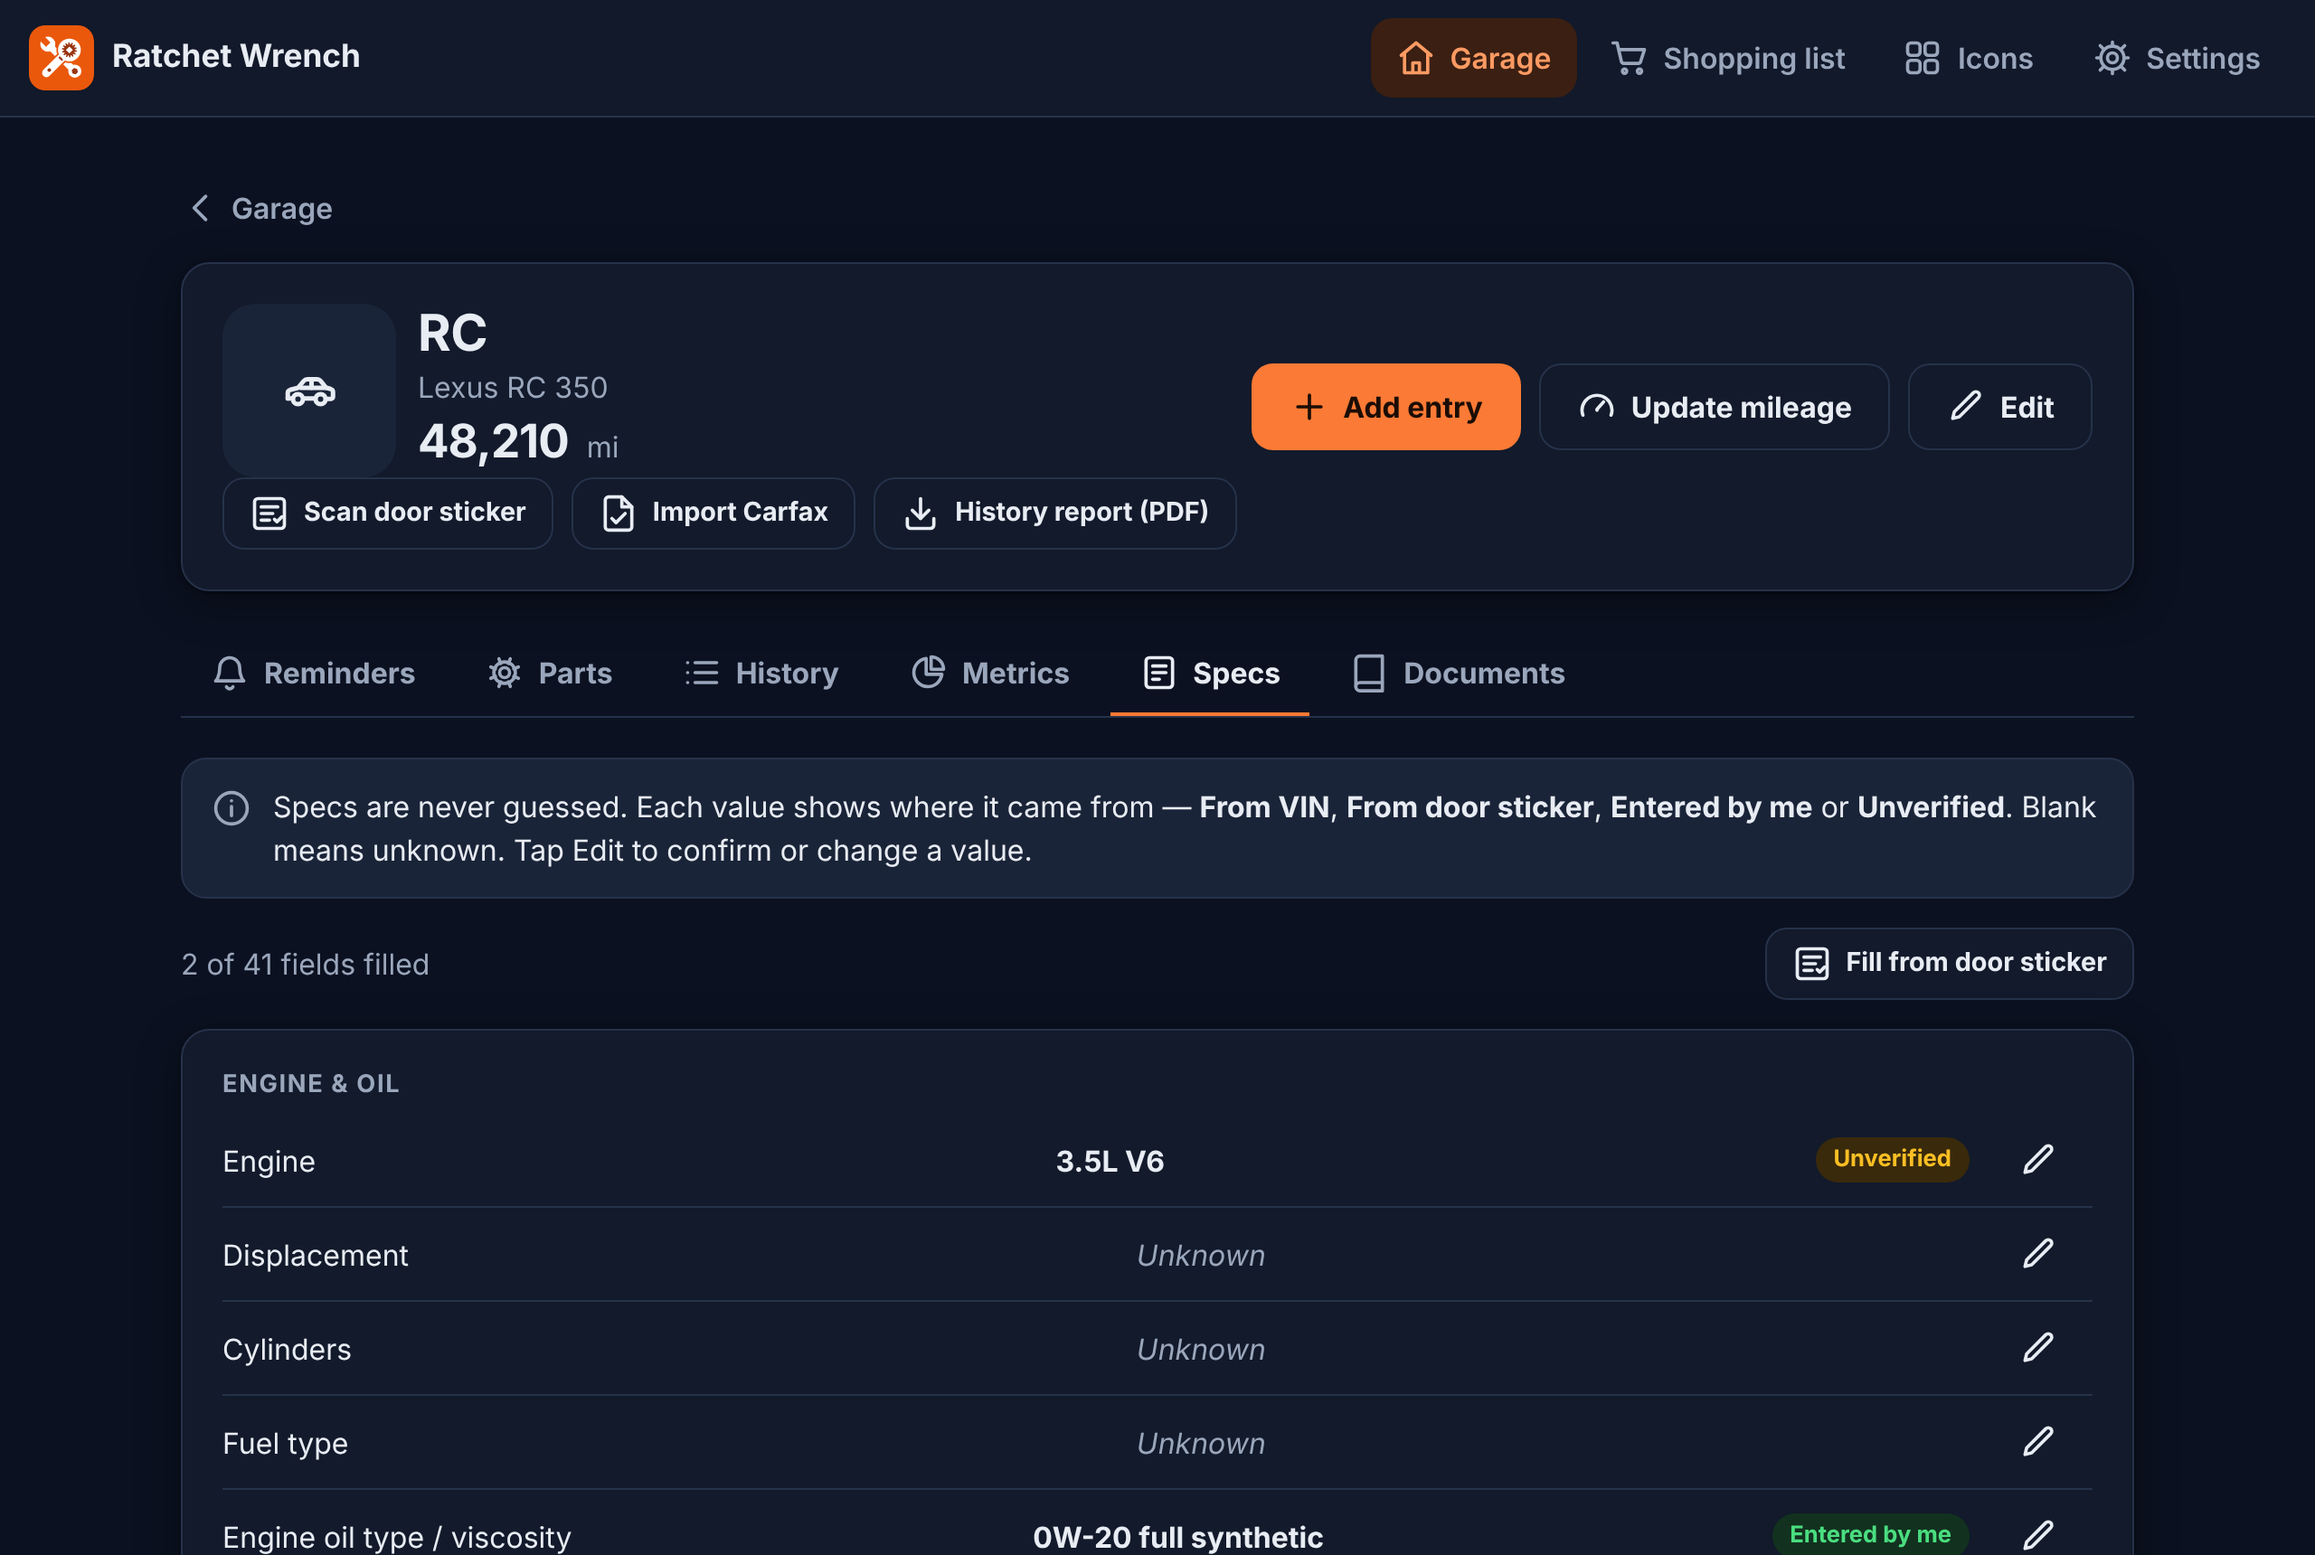
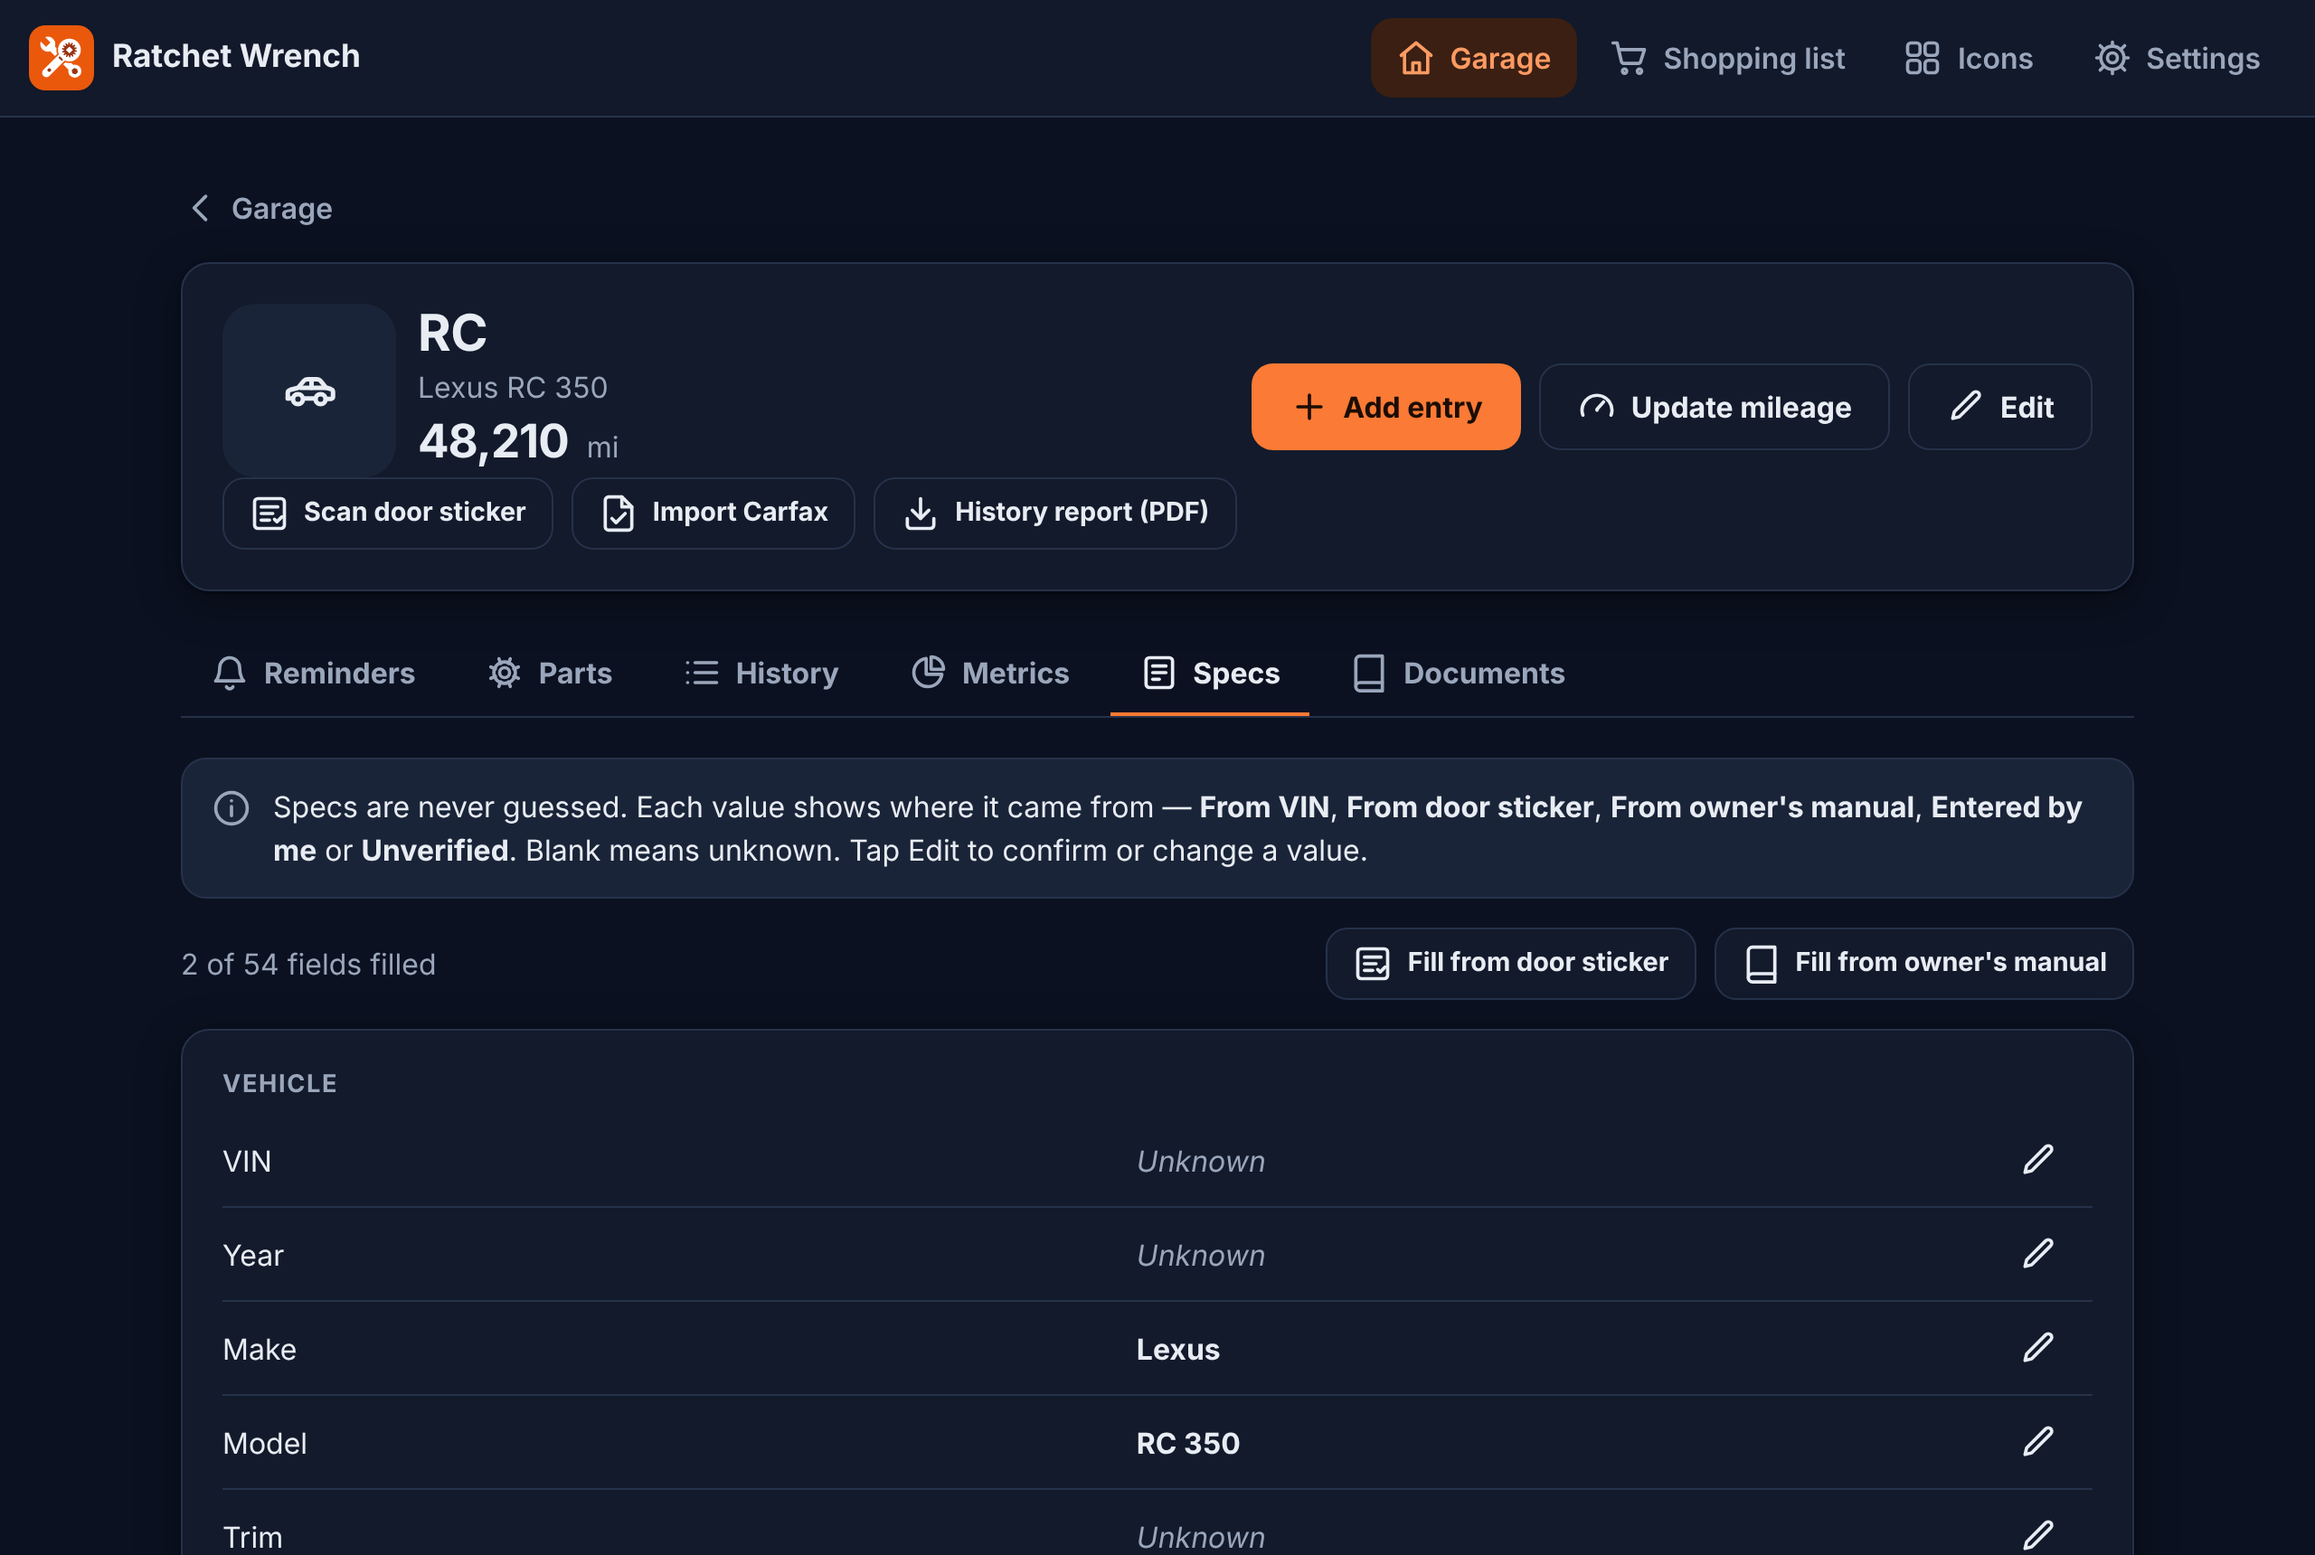
Fix layout test for off-screen buttons; README: specs, sticker weights, manual links, Sync settings; new screenshots
- syncButtonsAreFullWidth measured the clipped on-screen width (0 for
  buttons below the fold); now the layout width.
- README feature list rewritten for Specs (Vehicle section, VIN, sticker
  GVWR/GAWR, owner's manual from PDF / links / text, paint colour),
  outbound connections, Settings > Sync buttons. Screenshots regenerated.
- Release notes: these changes ship as 1.0.37 (1.0.35/1.0.36 builds
  failed on test timing).

Claude-Session: https://claude.ai/code/session_01W93D3VvsnAUVTr3xgsXBW4

diff --git a/android/app/src/test/java/com/ratchetwrench/app/ScreensTest.kt b/android/app/src/test/java/com/ratchetwrench/app/ScreensTest.kt
@@ -489,10 +489,10 @@ class ScreensTest {
             store.mode = "server"
             click("Settings")
             scrollTo("Sign in again")
-            val screen = rule.onAllNodes(androidx.compose.ui.test.isRoot())[0].fetchSemanticsNode().boundsInRoot.width
+            val screen = rule.onAllNodes(androidx.compose.ui.test.isRoot())[0].fetchSemanticsNode().size.width.toFloat()
             val widths = listOf("Sync now", "Change address", "Reconnect with QR code", "Sign in again").map { label ->
                 scrollTo(label)
-                rule.onAllNodesWithText(label)[0].fetchSemanticsNode().boundsInRoot.width
+                rule.onAllNodesWithText(label)[0].fetchSemanticsNode().size.width.toFloat()  // layout width (not clipped by the screen edge)
             }
             for (w in widths) {
                 org.junit.Assert.assertEquals("all Sync buttons the same width: $widths", widths[0], w, 1f)

diff --git a/README.md b/README.md
@@ -24,9 +24,14 @@ You can start with the phone alone and connect it to a computer or server later:
 
 **Manage your vehicles**
 - **Vehicles:** cars and motorcycles with year, make, model (pick from NHTSA's lists for that make and year), nickname, VIN, mileage and a photo.
-- **VIN:** type it, or **scan the barcode** with the phone camera (only what's inside the on-screen box is read). The free US government (NHTSA) decoder fills in what it knows.
-- **Door-jamb sticker scan:** photograph the stickers inside the driver's door. The phone reads them offline and finds the VIN, tire sizes and pressures, paint and trim codes, build date and weight ratings. You **confirm, edit or reject every value** before it's saved.
-- **Specs** (oil type and capacity, tire sizes, fluids, paint code…). Decoding the VIN fills in everything NHTSA knows (engine and engine code, horsepower, transmission, drive, body, weight, wheelbase, safety equipment, plant…). **Fill from owner's manual** takes you to the maker's owner website, then reads the manual from a PDF, from links (a PDF or web-manual pages) or from pasted text, finds the oil grade, coolant, transmission and brake fluid and their capacities, and shows where each came from, for you to confirm. A known paint code (Lexus, Toyota, Kia) suggests the colour name. Every value shows where it came from: **From VIN**, **From door sticker**, **From owner's manual**, **Entered by me** or **Unverified**. Nothing is guessed.
+- **VIN:** type it, or **scan the barcode** with the phone camera (only what's inside the on-screen box is read). The free US government (NHTSA) decoder fills in the year, make, model and every spec it knows. If NHTSA lists several possible trims, you pick yours.
+- **Door-jamb sticker scan:** photograph the stickers on the driver's door and door pillar — the tire placard **and** the label with the VIN. The phone reads them offline and finds the VIN, tire sizes and pressures, paint and trim codes, build date and the weight ratings (**GVWR** and front/rear **GAWR**, in lb). You **confirm, edit or reject every value** before it's saved.
+- **Specs** — everything about the vehicle in one list, starting with VIN, year, make, model and trim. Ways to fill it in:
+  - **Decode VIN:** engine and engine model, horsepower, transmission, drive, body, curb weight, wheelbase, safety equipment, plant.
+  - **Door sticker:** tires, pressures, paint, weights (above).
+  - **Fill from owner's manual:** opens the maker's owner website to find the manual, then reads it from a **PDF**, from **links** (one PDF or several web-manual pages) or from **pasted text**. It finds oil grade, coolant, transmission and brake fluid, capacities, GVWR and more, and shows where each value came from. Empty fields the manual usually covers say "can be filled from owner's manual" — tap to go there.
+  - **Paint colour:** a known paint code (Lexus, Toyota, Kia) suggests the colour name.
+  - Every value is labelled **From VIN**, **From door sticker**, **From owner's manual**, **Entered by me** or **Unverified**. Nothing is guessed, and you confirm everything.
 - **Parts** with OEM part numbers and a link to the manufacturer's official parts site. Specs that are parts (oil type, oil filter number, tire sizes, battery group, wiper sizes…) are **added to Parts automatically**.
 - **Maintenance and repair history:** date, mileage, type (each with its own icon), description, parts, cost, shop or DIY, notes, and any number of photos and receipts. Costs with nothing entered show $0.00.
 - **Reminders** by mileage, by date, or **whichever comes first**. A vehicle opens on its reminders, **overdue first**. Tap one and **Mark as done**: it fills in today's date and mileage, adds the job to the history, and the status changes from Overdue to OK. Any matching record you log also updates the reminder.
@@ -43,7 +48,7 @@ You can start with the phone alone and connect it to a computer or server later:
 - **Shopping list:** collect what you need before a job — from a reminder, a saved part, or typed in — with quantity, OEM part number, spec and notes. Search any item, tick it off when bought. Never creates expenses or marks maintenance done by itself.
 
 **Everything else**
-- **Connect your phone by QR code:** the desktop app (or Settings → Connect a phone on the web) shows a one-time QR code; scan it in the Android app. A small banner offers **Resync** when the phone can't reach the computer (and can be dismissed).
+- **Connect your phone by QR code:** the desktop app (or Settings → Connect a phone on the web) shows a one-time QR code; scan it in the Android app. A small banner offers **Resync** when the phone can't reach the computer (and can be dismissed). *Settings → Sync* has Sync now, Change address, Reconnect with QR code and Sign in again.
 - **Report a bug** from inside the app: describe the problem, see exactly what will be sent, and press Send — it goes straight to the project's GitHub issues ([docs/BUG-REPORTS.md](docs/BUG-REPORTS.md)).
 - **"What's new"** after every update (including versions you skipped), and **Light, Dark or System** theme.
 
@@ -199,7 +204,7 @@ Security was the top priority. Highlights:
 - **File uploads:** checked by their real content type, with GPS and other metadata stripped from photos, and untrusted PDFs read in a sandbox.
 - **Server container:** runs as non-root with a read-only filesystem.
 - **Android app:** the login token is encrypted with the Android Keystore, and HTTPS is enforced.
-- **No telemetry or tracking.** Outbound connections are few, documented and mostly optional: NHTSA (VIN decoding, model lists and recalls — year/make/model only), GitHub (app updates, and bug reports only when you press Send), your own ntfy server, and AI sticker reading only if the owner turns it on. Smart Shopping links only open a retailer's site when you tap them. Full table in [SECURITY.md](SECURITY.md).
+- **No telemetry or tracking.** Outbound connections are few, documented and mostly optional: NHTSA (VIN decoding, model lists and recalls — year/make/model only), owner's-manual links you paste (only those exact links, public websites only), GitHub (app updates, and bug reports only when you press Send), your own ntfy server, and AI sticker reading only if the owner turns it on. Smart Shopping links only open a retailer's site when you tap them. Full table in [SECURITY.md](SECURITY.md).
 
 Every dependency is pinned and scanned with pip-audit, npm audit, OSV-Scanner, Trivy, Semgrep, Gitleaks, Android lint and CodeQL.
 

diff --git a/PROGRESS.md b/PROGRESS.md
@@ -99,7 +99,7 @@ Build-sandbox notes: the sandbox blocks dl.google.com, api.osv.dev, semgrep.dev 
 
 - v1.0.35: owner's manual from links or pasted text, owner-website button; empty manual-findable specs link to the reader; "Engine code" → "Engine model" (D69).
 
-- v1.0.36: Specs → Vehicle section (VIN/year/make/model/trim); several-trims VINs no longer set a list as the trim (Tiguan added to shared VIN tests); GVWR/GAWR from more sticker layouts and from the manual (D70).
+- v1.0.37 (1.0.35/1.0.36 builds failed on a test timing issue; included here): Specs → Vehicle section (VIN/year/make/model/trim); several-trims VINs no longer set a list as the trim (Tiguan added to shared VIN tests); GVWR/GAWR from more sticker layouts and from the manual (D70).
 
 ## Ideas for later (not started)
 - Code-sign the desktop app (paid Apple/Microsoft certificates) to remove first-launch warnings; add an Intel-Mac build if needed.
